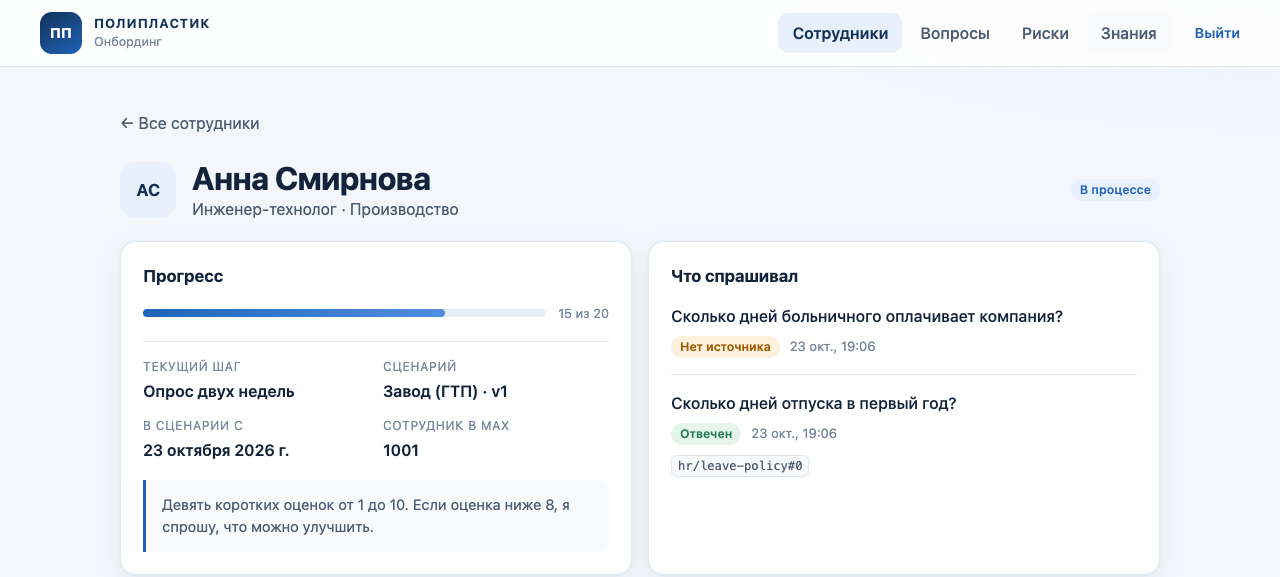
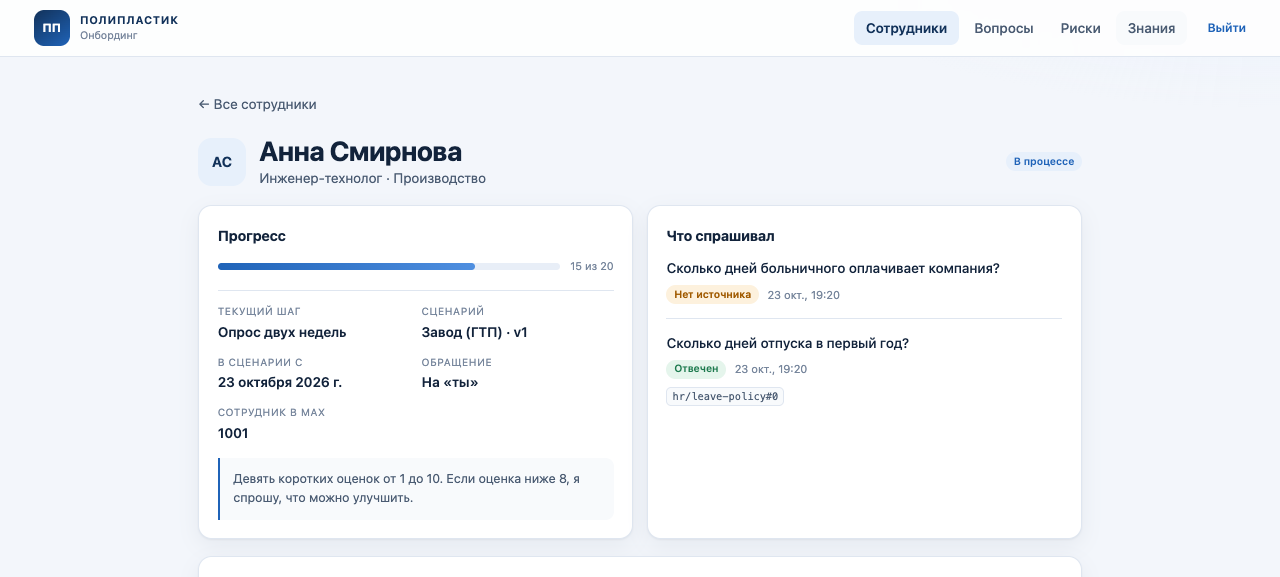
feat(admin): show the chosen tone on the run card

diff --git a/apps/admin/src/pages/RunDetailPage.tsx b/apps/admin/src/pages/RunDetailPage.tsx
@@ -85,6 +85,10 @@ export function RunDetailPage({
                   <dd>{formatDate(query.data.entered_at)}</dd>
                 </div>
                 <div>
+                  <dt>Обращение</dt>
+                  <dd>{query.data.tone === "informal" ? "На «ты»" : "На «вы»"}</dd>
+                </div>
+                <div>
                   <dt>Сотрудник в MAX</dt>
                   <dd>{query.data.employee_id}</dd>
                 </div>

diff --git a/apps/admin/src/types.ts b/apps/admin/src/types.ts
@@ -32,6 +32,7 @@ export interface RunDetail extends RunSummary {
   step_message: string | null;
   scenario: string;
   scenario_version: number;
+  tone: "formal" | "informal";
   events: AuditEvent[];
   questions: Question[];
 }

diff --git a/apps/api/onboarding/app/admin/queries.py b/apps/api/onboarding/app/admin/queries.py
@@ -26,6 +26,7 @@ class RunRecord:
     department: str
     scenario_id: str
     scenario_version: int
+    tone: str
     step_id: str
     entered_at: datetime
     active: bool
@@ -350,6 +351,7 @@ def _run_record(
         department=department,
         scenario_id=run.scenario_id,
         scenario_version=run.scenario_version,
+        tone=run.tone,
         step_id=run.step_id,
         entered_at=run.entered_at,
         active=run.status == "active",

diff --git a/apps/api/onboarding/api/admin.py b/apps/api/onboarding/api/admin.py
@@ -97,6 +97,7 @@ async def run_detail(request: Request, principal: Admin, run_id: str) -> RunDeta
         step_message=step_message,
         scenario=record.scenario_id,
         scenario_version=record.scenario_version,
+        tone=record.tone,
         events=[
             AuditEvent(name=event.name, at=event.at, fields=event.fields) for event in events
         ],

diff --git a/apps/api/onboarding/api/schemas.py b/apps/api/onboarding/api/schemas.py
@@ -51,6 +51,7 @@ class RunDetail(RunSummary):
     step_message: str | None
     scenario: str
     scenario_version: int
+    tone: str
     events: list[AuditEvent]
     questions: list[Question]
 

diff --git a/docs/contracts/admin-api.md b/docs/contracts/admin-api.md
@@ -61,8 +61,10 @@ the cap.
 `step_title` is `null` when the pinned scenario version cannot be loaded or the step id is not in
 it; the cabinet falls back to `step_id`. `step_number` is 1-based and `0` when the step is unknown.
 
-`RunDetail` extends `RunSummary` with `scenario`, `scenario_version`, `step_message`, `events`,
-and `questions`. Its questions are only that employee's, limited to the newest 20.
+`RunDetail` extends `RunSummary` with `scenario`, `scenario_version`, `tone`, `step_message`,
+`events`, and `questions`. `tone` is `formal` or `informal` and comes from the welcome choice,
+pinned on the run like the scenario version. Its questions are only that employee's, limited to the
+newest 20.
 
 `Question`:
 
